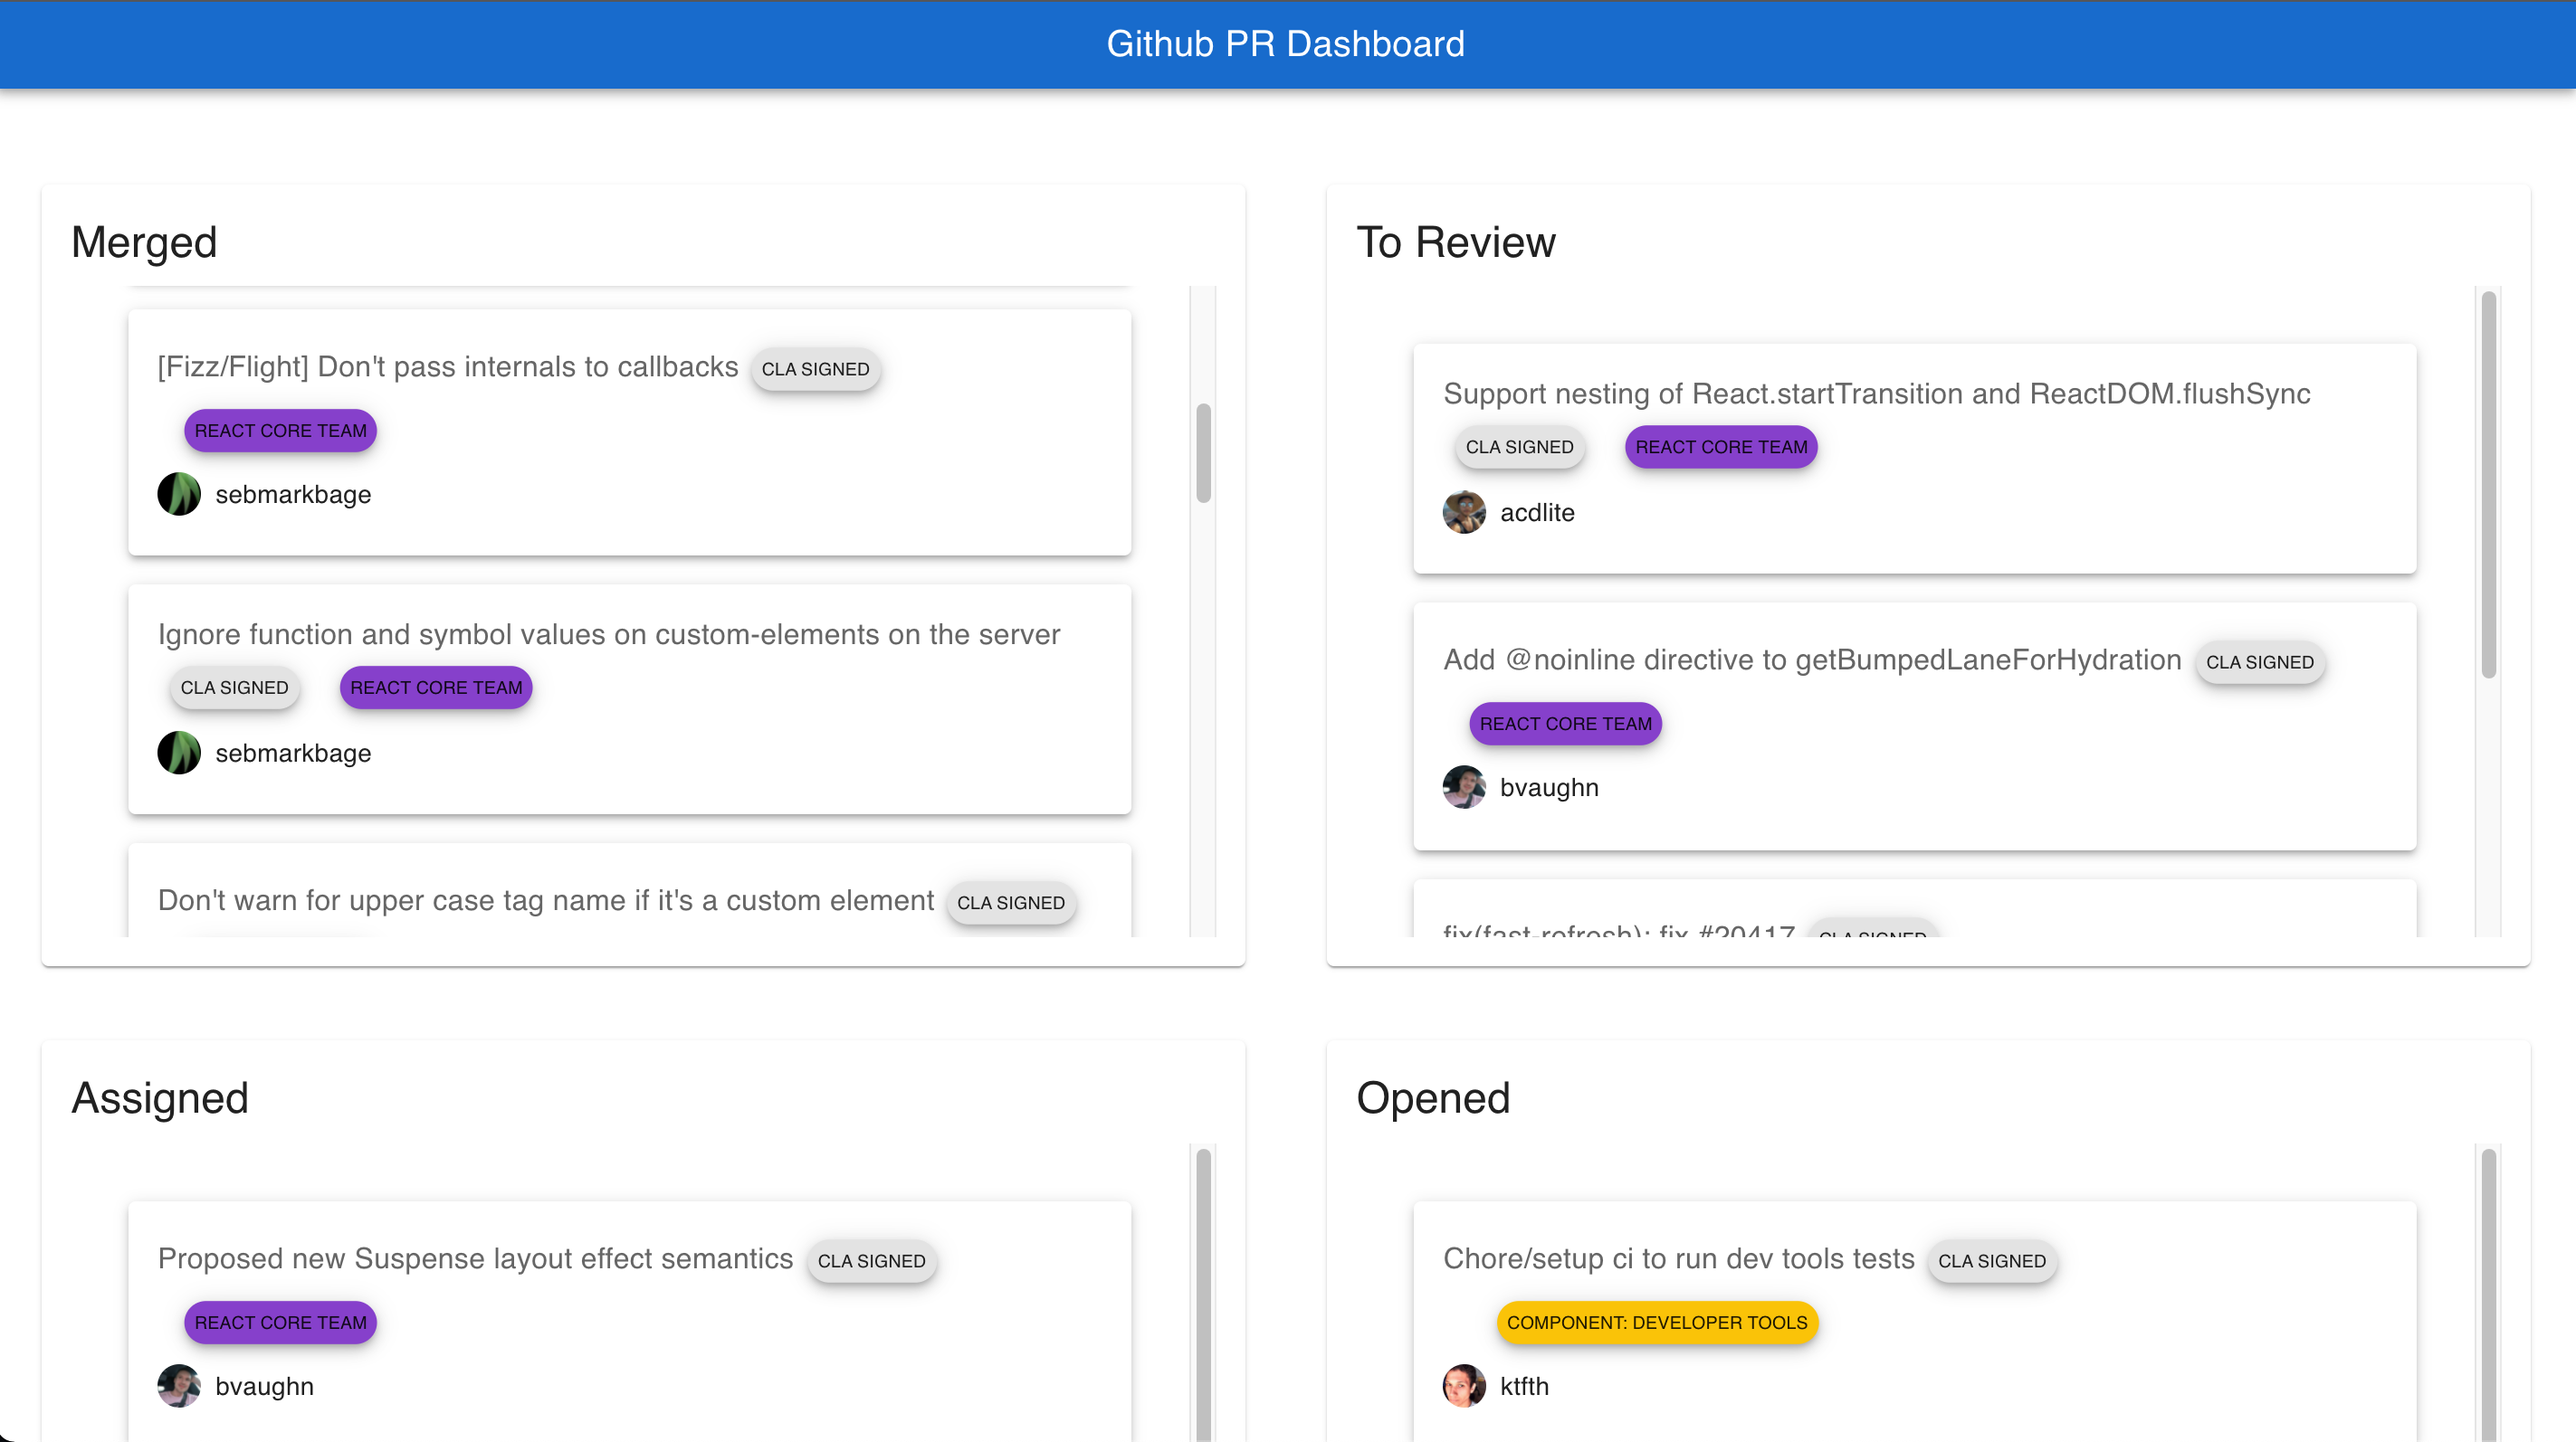
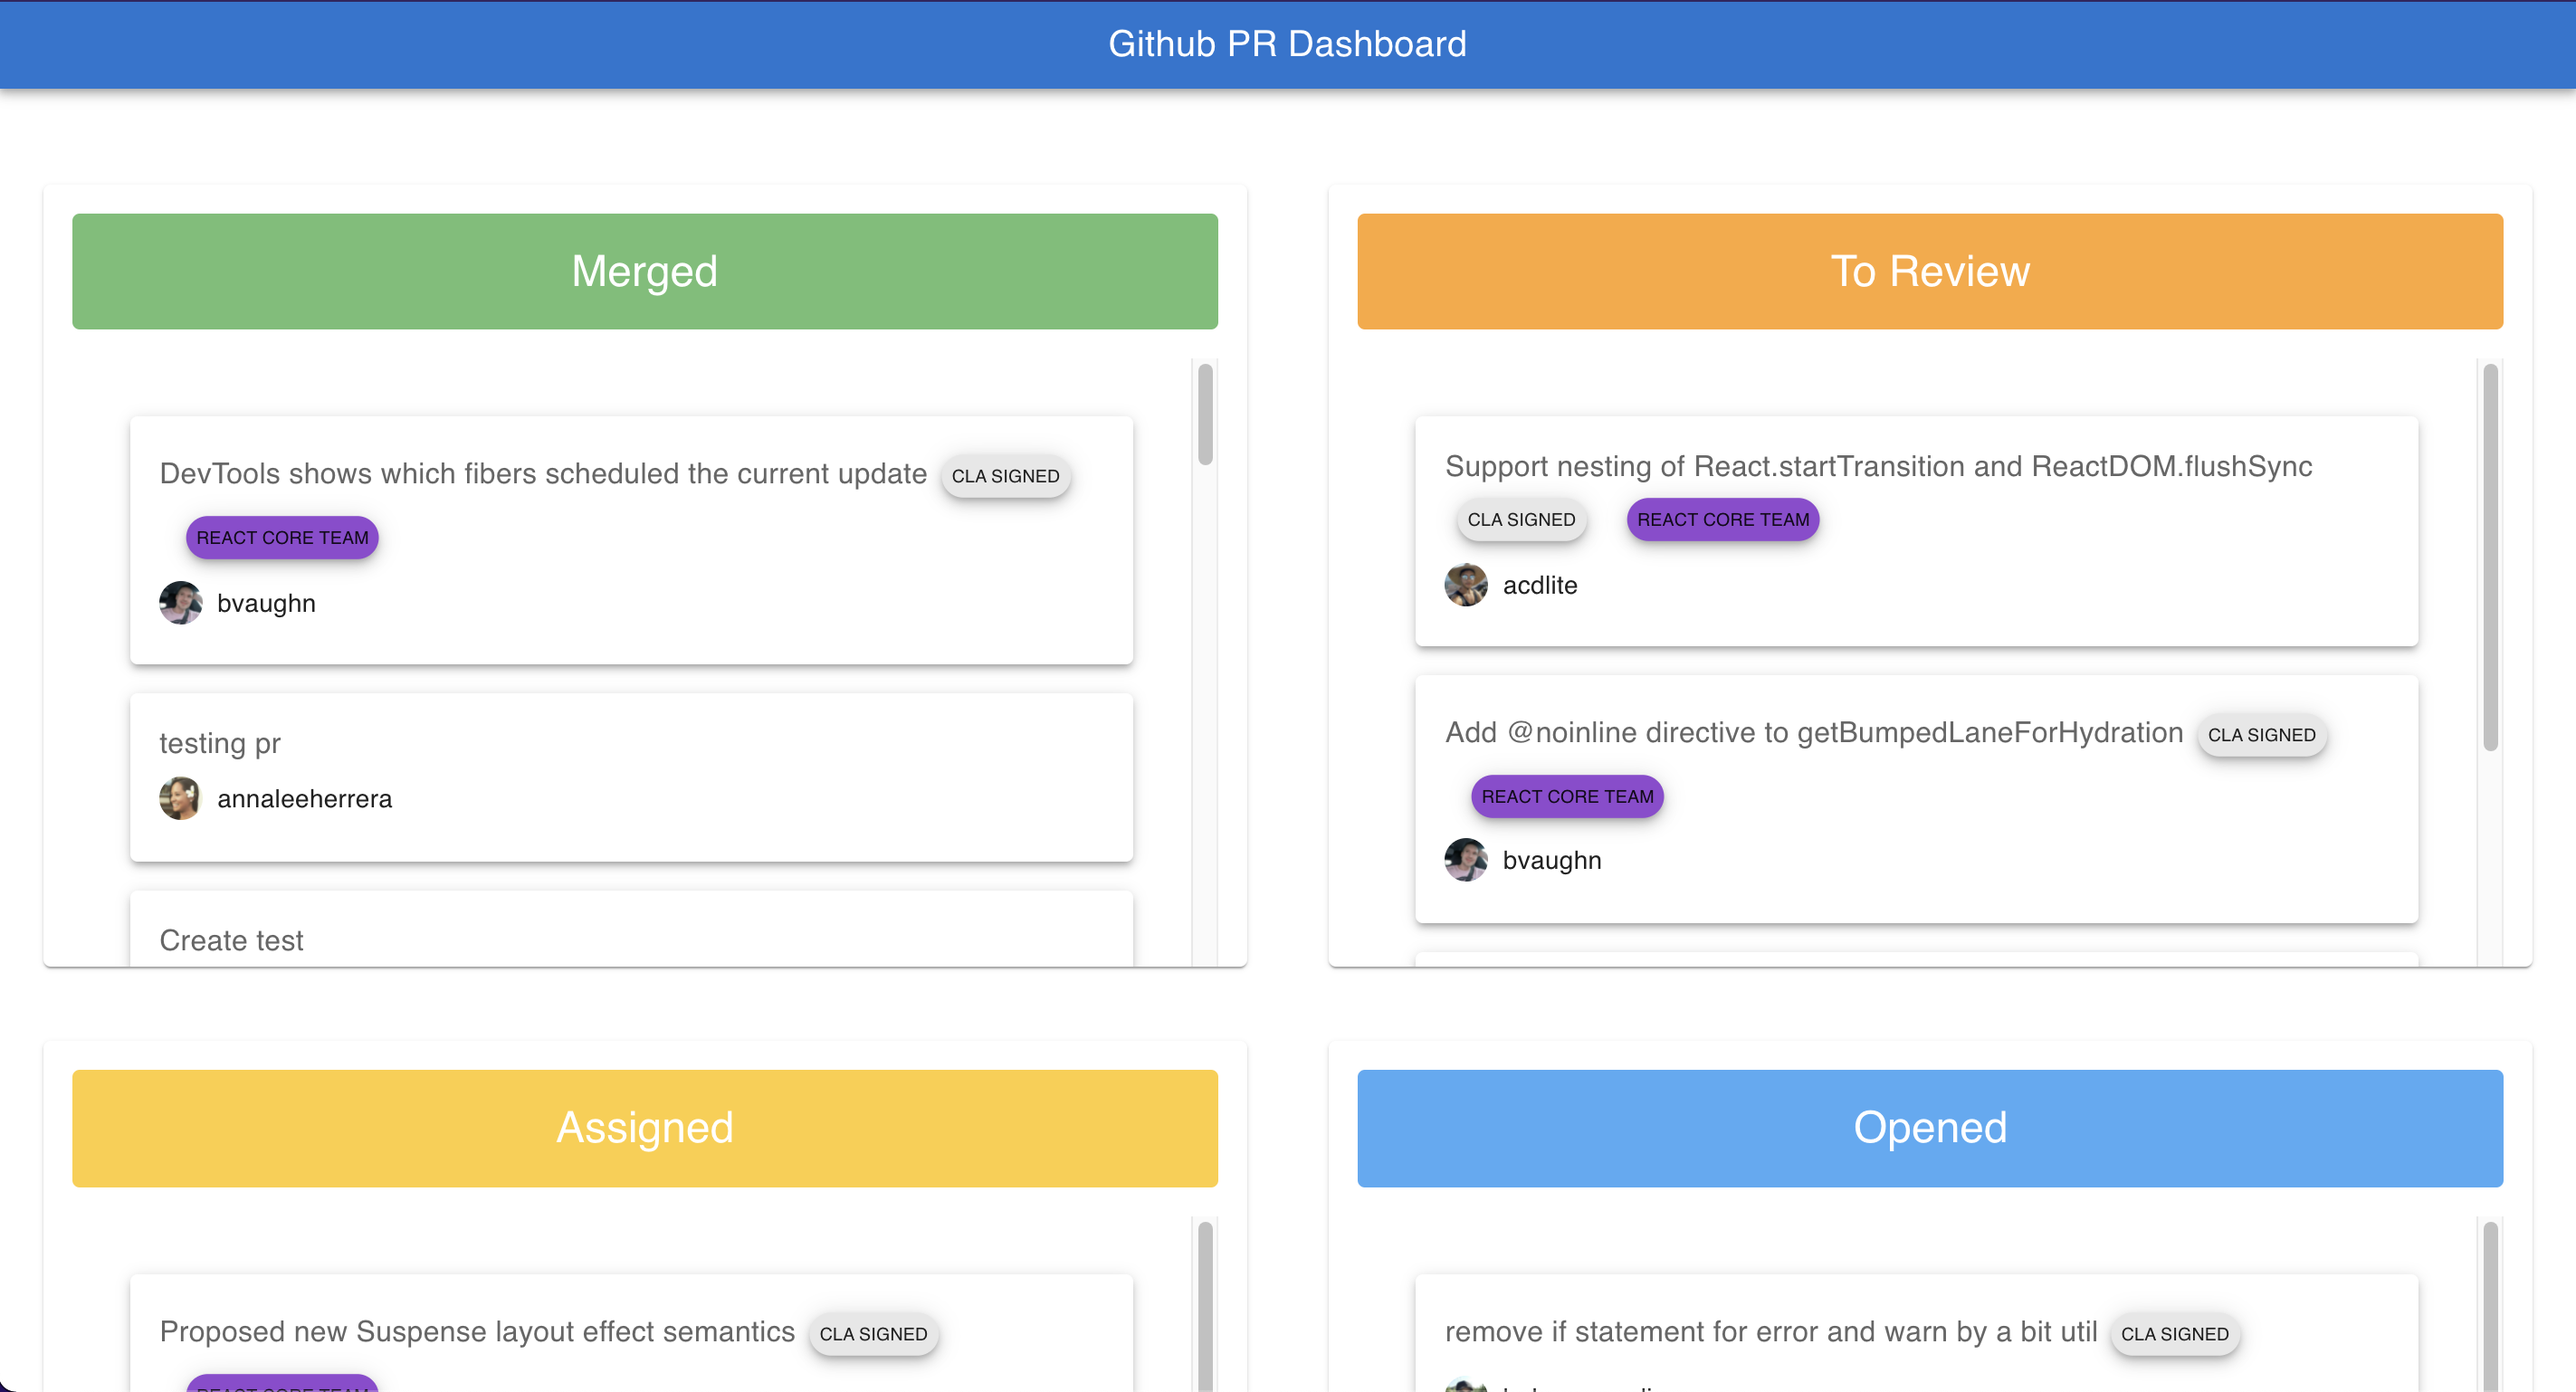
feat(columns): Added background color to the columns

diff --git a/github-pr-dashboard/src/components/Container/Container.js b/github-pr-dashboard/src/components/Container/Container.js
@@ -1,7 +1,7 @@
 //This component renders the columns and passes the filtered data to next component(List)
 
 //React's and apollo's dependencies
-import { React, useEffect, useState, useMemo } from "react";
+import { React, useEffect, useState, useMemo, useCallback } from "react";
 import { useQuery } from "@apollo/client";
 
 //Material UI dependencies
@@ -12,6 +12,7 @@ import {
   Box,
   Toolbar,
   Typography,
+  Stack,
 } from "@mui/material";
 
 //Local dependencies
@@ -55,6 +56,28 @@ const Container = () => {
     [pullRequests] // Filtering and populating all the PRs who has assignee.
   );
 
+  // We are using this util function to assign a background color based on the column's identifier.
+  const setColor = useCallback((identifier) => {
+    let color = "";
+    switch (identifier) {
+      case "merge":
+        color = "#6fbf73";
+        break;
+      case "pending":
+        color = "#4dabf5";
+        break;
+      case "assigned":
+        color = "#ffcd38";
+        break;
+      case "review":
+        color = "#ffa733";
+        break;
+      default:
+        color = "";
+    }
+    return color;
+  }, []);
+
   return (
     <>
       {/* The Box component by the MaterialUI is responsible for display the header */}
@@ -90,17 +113,33 @@ const Container = () => {
           containers &&
           containers.map((containerName, i) => (
             <Card className="card" key={i}>
-              {/* <Stack
+              {/* The Stack is a Material UI component, it will display a content inside a square box */}
+              <Stack
                 direction="row"
                 alignItems="center"
                 justifyContent="space-between"
-                sx={{ px: 2, py: 1, bgcolor: "#2196f3" }}
+                sx={{
+                  px: 2,
+                  py: 1,
+                  mb: 2,
+                  bgcolor: setColor(containerName.identifier), //Here we are calling the setColor function to dynamically assigning a background color based on name/identifier of the container.
+                  color: "#FFFFFF",
+                  borderRadius: "4px",
+                }}
               >
-              
-              </Stack> */}
-              <Typography gutterBottom variant="h5" component="div">
-                {containerName.title}
-              </Typography>
+                <Typography
+                  gutterBottom
+                  variant="h5"
+                  sx={{
+                    width: "100%",
+                    paddingTop: "0.5rem",
+                    textAlign: "center",
+                  }}
+                >
+                  {containerName.title}
+                </Typography>
+              </Stack>
+
               <CardContent className="cardContent">
                 {/* There are in total 4 identifier created on the backend (merge,review,assigned,draft) based on that associating the PRs */}
                 {containerName.identifier === "merge" && closed && (

diff --git a/github-pr-dashboard/src/components/List/List.js b/github-pr-dashboard/src/components/List/List.js
@@ -34,7 +34,6 @@ const List = ({ data, identifier }) => {
           <Typography variant="body1" color="text.secondary">
             {/* Displays the PR's title */}
             {item.title}
-            {console.log(identifier)}
             {/* Displays the labels associated with the PR, mapping over them since there could be more than 1 labels */}
             {item.labels.map((item) => (
               <Fab
@@ -45,7 +44,9 @@ const List = ({ data, identifier }) => {
                   mr: -1,
                   transform: "scale(0.7)",
                   backgroundColor: `#${item.color}`,
-                  cursor: "default",
+                  "&:hover": {
+                    backgroundColor: `#${item.color}`,
+                  },
                 }}
               >
                 <Typography variant="body2">{item.name}</Typography>
